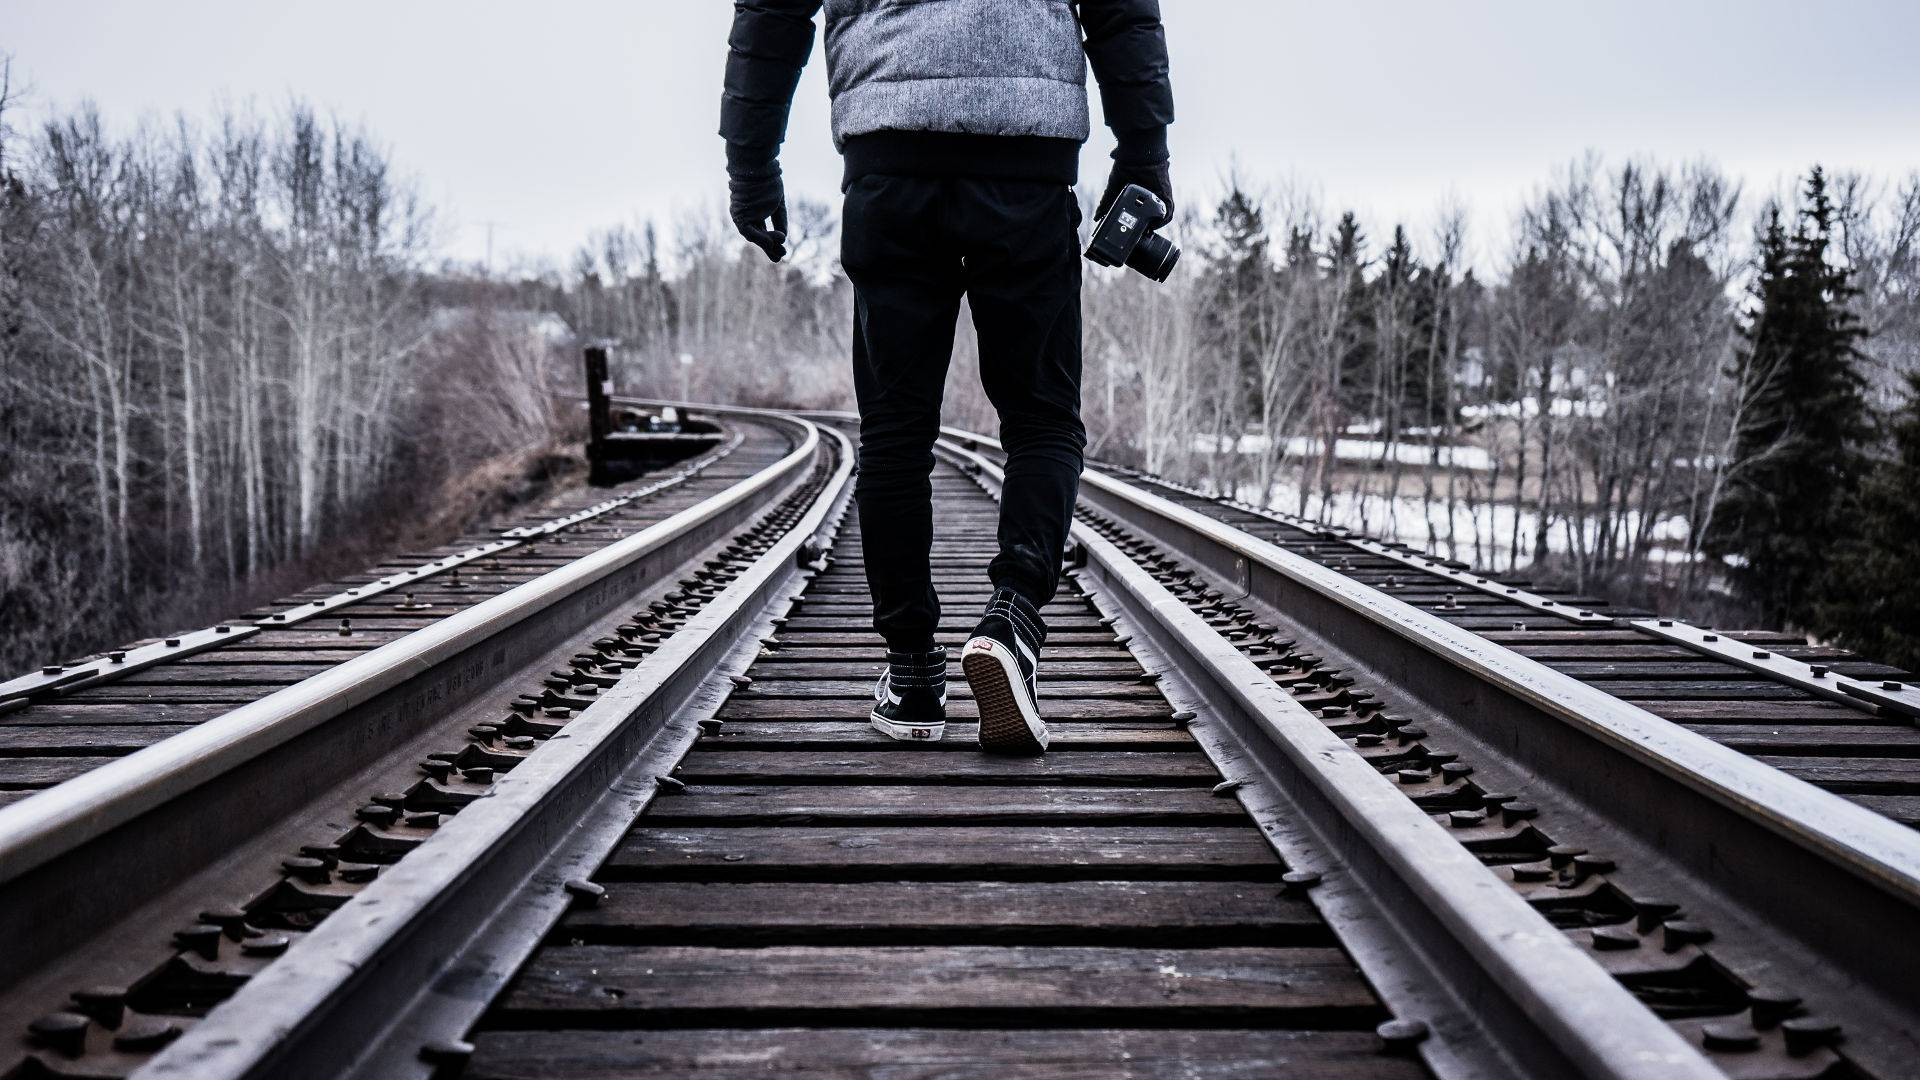
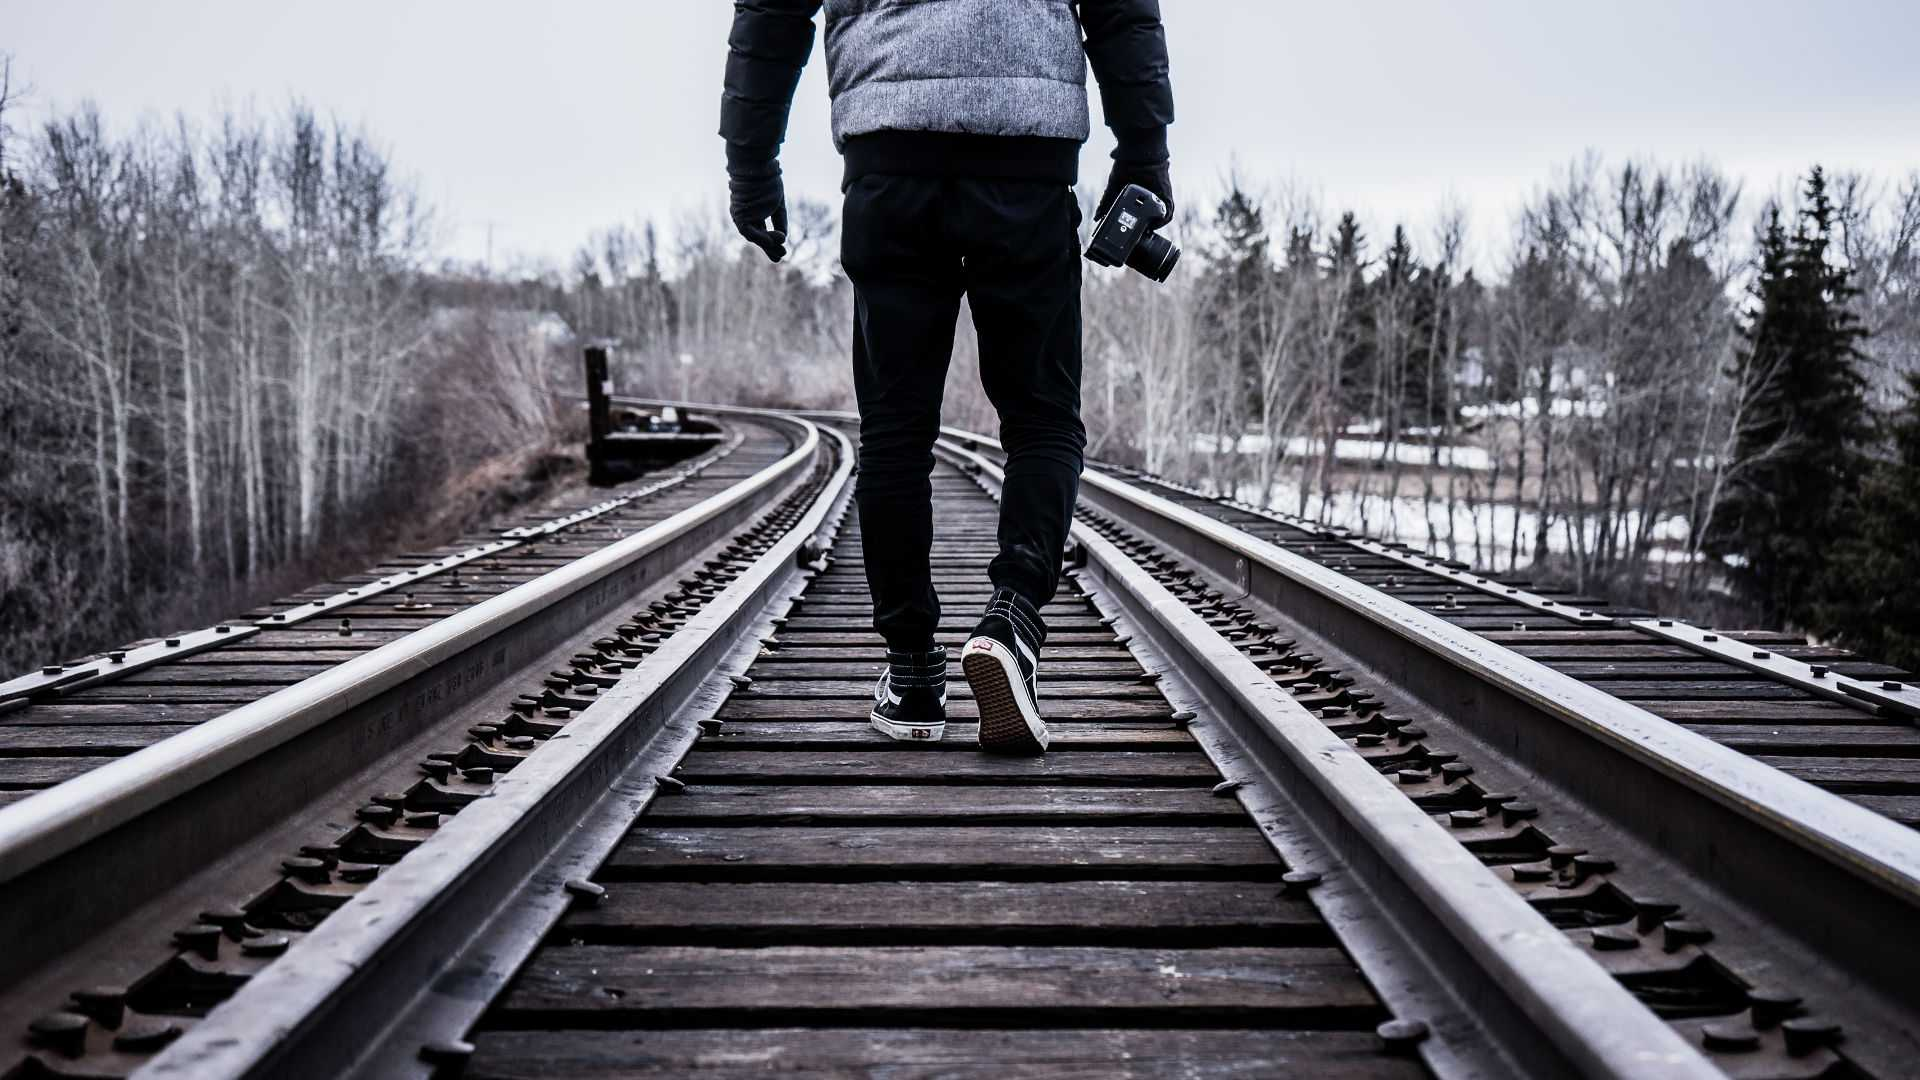
optimisation image

diff --git a/index.html b/index.html
@@ -269,7 +269,7 @@
     </div>
 </section> -->
 
-<div class="not-fullscreen background parallax" style="background-image:url('img/3.jpeg');" data-img-width="1920" data-img-height="1280" data-diff="100">
+<div class="not-fullscreen background parallax" style="background-image:url('img/3.jpeg');" data-img-width="1280" data-img-height="853" data-diff="100">
     <div class="content-a" id="contact">
         <div class="content-b contactDiv">
             <header class="section-header">
